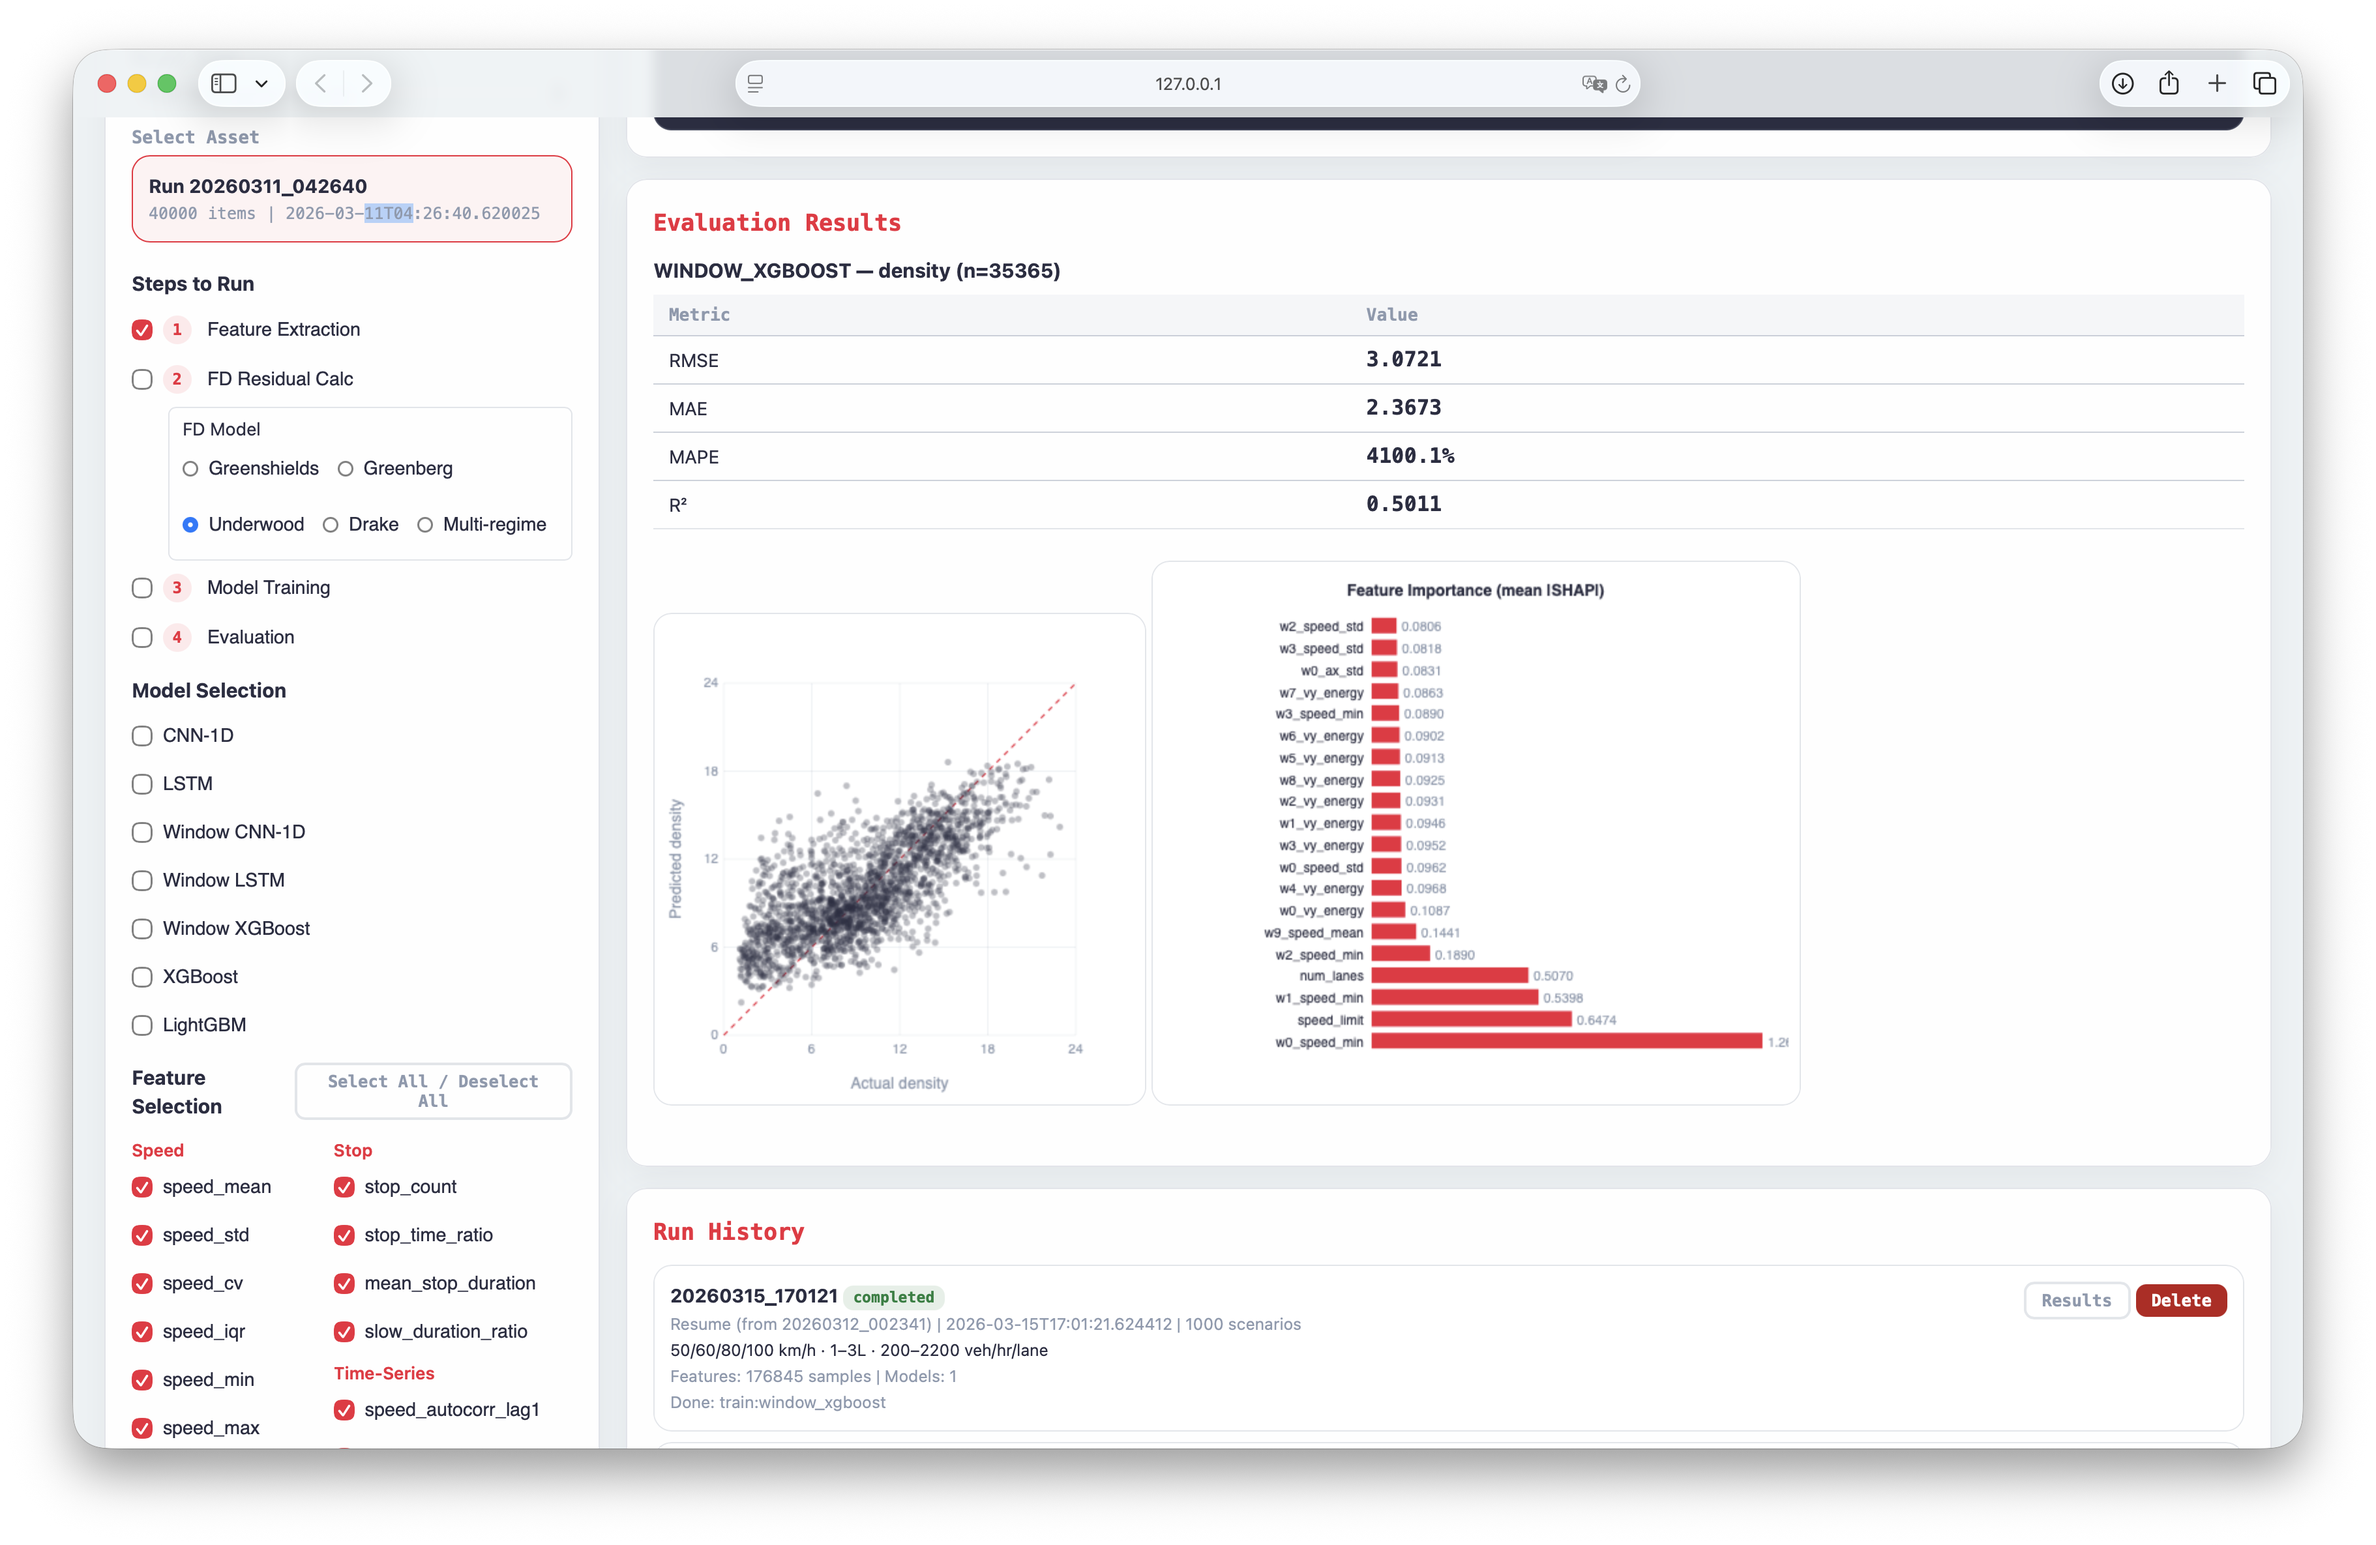
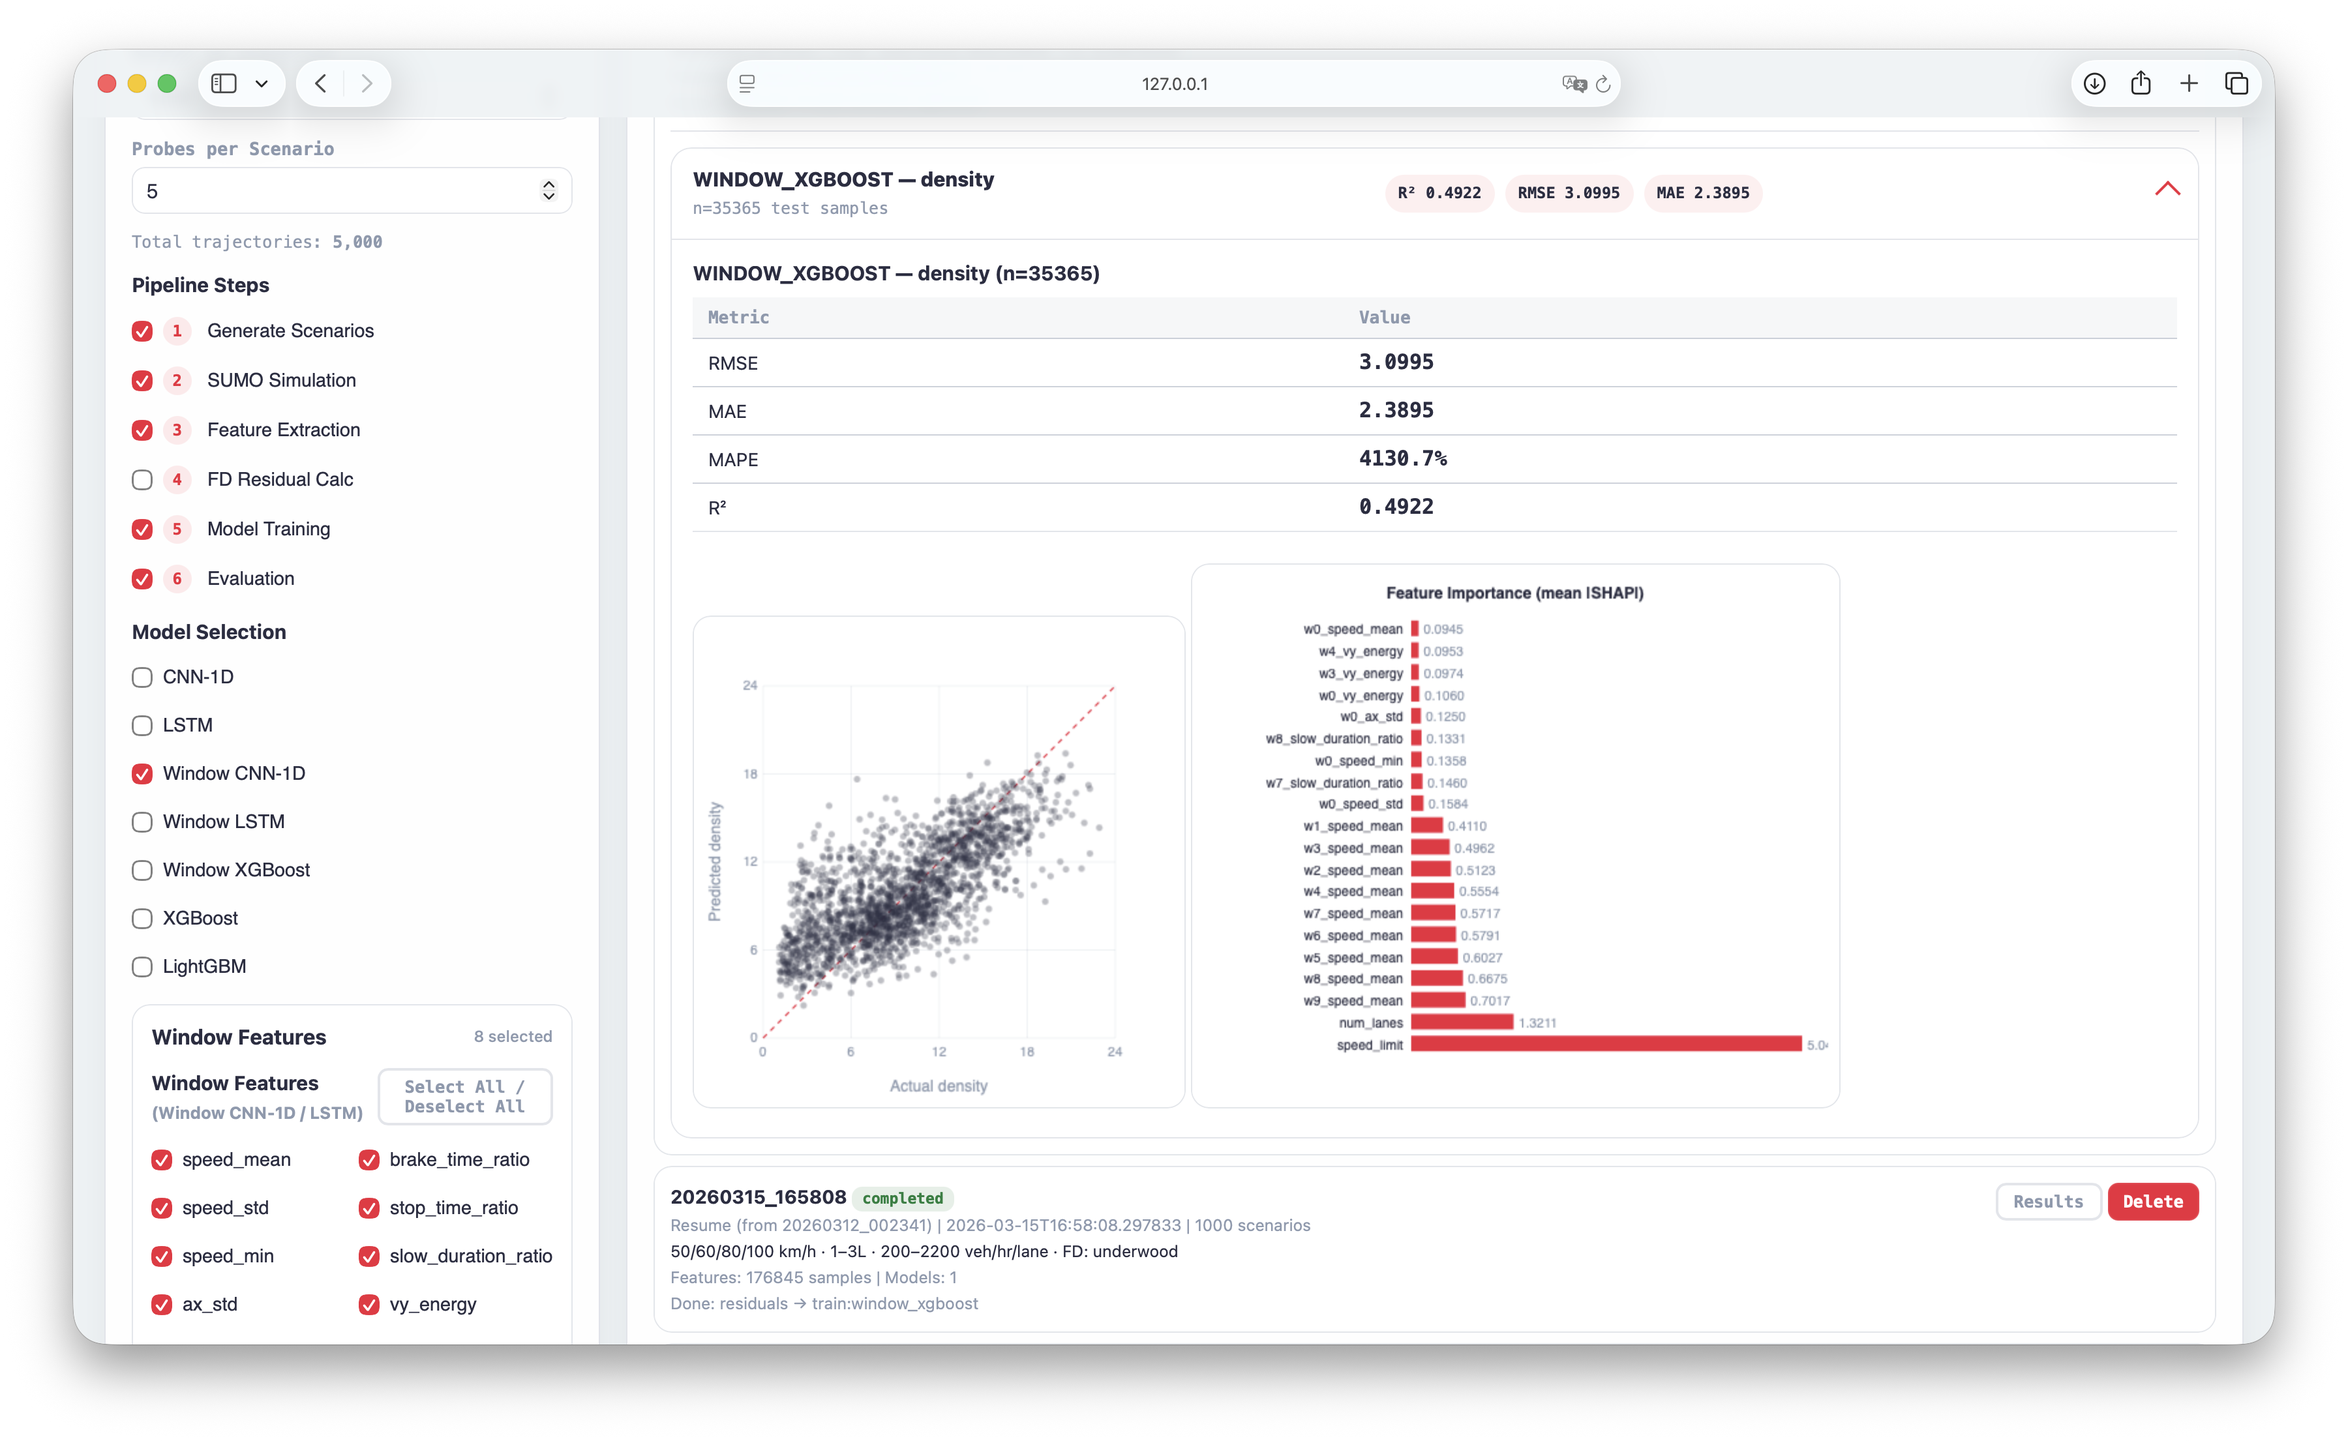
Update ProbeDensity project copy and pipeline image

diff --git a/index.html b/index.html
@@ -3750,16 +3750,16 @@
 
                         <article class="landing-feature-card">
                             <span class="feature-kicker" id="feature-ml-kicker">Data & ML Pipeline</span>
-                            <h2 class="feature-title" id="feature-ml-title">UrbanFlow — Real-Time Traffic Density
+                            <h2 class="feature-title" id="feature-ml-title">ProbeDensity — End-to-End Traffic Density
                                 Estimation
                             </h2>
                             <p class="feature-copy" id="feature-ml-copy">
-                                Ingests real-time GPS streams from probe vehicles, segments by road link distance, and serves per-link density predictions via FastAPI on Cloud Run.
+                                Turns smartphone probe trajectories into deployable road-link density estimates through an end-to-end pipeline covering simulation, training, inference, storage, and live inspection.
                             </p>
                             <ul class="feature-points" id="feature-ml-points">
-                                <li>No roadside sensors — smartphone GPS segmented by road geometry and scored via car-following features</li>
-                                <li>No ground-truth labels — SUMO simulations generate training data mapped to Seoul's 2.2K arterial links</li>
-                                <li>Probes take different routes — Bayesian ensemble aggregates per-link predictions with rolling-window persistence</li>
+                                <li>No roadside sensors — smartphone GPS and accelerometer streams are segmented by road-link geometry and scored with trajectory features</li>
+                                <li>No field labels at scale — SUMO simulation generates training data, then the model is served over Seoul's 2.2K arterial links</li>
+                                <li>Real probes do not align — each traversal is predicted first, then overlapping links are aggregated into deployable multi-probe density estimates</li>
                             </ul>
                             <div class="feature-tags">
                                 <span class="feature-tag">Data Pipeline</span>
@@ -5195,9 +5195,9 @@
                 "feature-llm-copy": "Converts natural-language traffic descriptions into runnable SUMO simulations through a fine-tuned parameter extractor and role-separated LLM orchestration.",
                 "feature-llm-points": `<li>Base LLMs hallucinate SUMO parameters (51.5% MAPE) — fine-tuned on real Seoul data, reduced to 10.6%</li><li>Simulation failures are domain-specific — correction loop logs field-level errors and exports retraining data</li><li>40+ interdependent parameters — role-separated pipeline isolates extraction from geometry reasoning</li>`,
                 "feature-ml-kicker": "Data & ML Pipeline",
-                "feature-ml-title": "UrbanFlow — Real-Time Traffic Density Estimation",
-                "feature-ml-copy": "Ingests real-time GPS streams from probe vehicles, segments by road link distance, and serves per-link density predictions via FastAPI on Cloud Run.",
-                "feature-ml-points": `<li>No roadside sensors — smartphone GPS segmented by road geometry and scored via car-following features</li><li>No ground-truth labels — SUMO simulations generate training data mapped to Seoul's 2.2K arterial links</li><li>Probes take different routes — Bayesian ensemble aggregates per-link predictions with rolling-window persistence</li>`,
+                "feature-ml-title": "ProbeDensity — End-to-End Traffic Density Estimation",
+                "feature-ml-copy": "Turns smartphone probe trajectories into deployable road-link density estimates through an end-to-end pipeline covering simulation, training, inference, storage, and live inspection.",
+                "feature-ml-points": `<li>No roadside sensors — smartphone GPS and accelerometer streams are segmented by road-link geometry and scored with trajectory features</li><li>No field labels at scale — SUMO simulation generates training data, then the model is served over Seoul's 2.2K arterial links</li><li>Real probes do not align — each traversal is predicted first, then overlapping links are aggregated into deployable multi-probe density estimates</li>`,
                 "pm-divider": "Supporting Product & Strategy Cases",
                 "pm-note": "Engineering solves the problem — but someone has to define the right problem first. These cases show how I validate markets, design business models, make UX trade-offs, and align stakeholders before a single line of code is written.",
                 "nav-p1-desc": "A cross-border commerce case built around market validation, pricing-gap analysis, and an operating-flow-based B2B pivot.",
